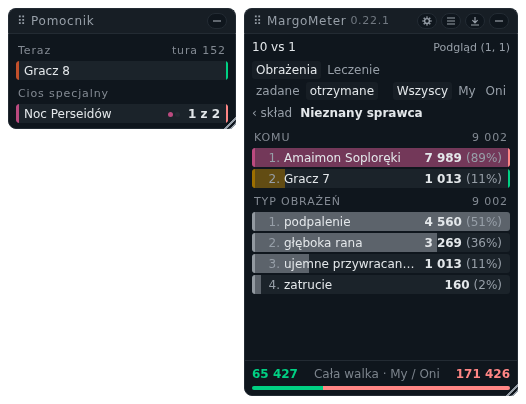
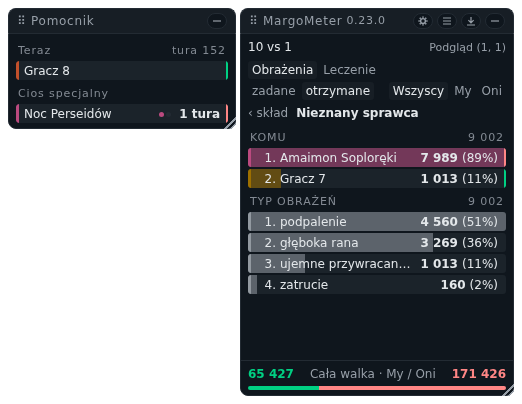
build(release): 0.23.0, tooltips in the game's own words, a coloured outcome, and a panel that says what it cannot show
Twenty-nine entries, seven of them a Zmiana, which is why the number moves
in its minor place:
- the panel's rows in a fighter's tooltip are written as the game writes
  its own, and Pomocnik counts the turns a length has left as the game
  does;
- "Typ obrażeń" keeps absorption under the element it took, or "x lub
  y" where the game gave one figure for the whole blow;
- a fight's outcome is green or red over the ranking, on its card and as
  a letter on the shelf, and a kept fight whose figures may be short or
  that no longer reads says so on its row;
- the rank, the share, the turn mark and the version are in the plain
  ink, the two signal marks on a ground of their own (ADR 0048);
- twenty-two fixes, among them the tooltips' slow and haste counted on
  their bearer's turns, a fight that did not read kept out of the shelf,
  every defect drawn, and this cycle's last audit (8fdfe95): an unread
  key opens no turn, a timer the page refuses leaves a panel saying so,
  and a live fight that will not read costs only its own row.

Each entry was held against v0.22.1: every fault stands in the tagged
tree (the turn standing, `interval.every`'s refusal, the live tally
ahead of the kept fight, the opponent cut, the quiet rank, the silent
dot and card-line clamps were each read there). Not entered, as nothing
a player sees: the rules, guards and renames, the development build's
second (ADR 0050), the envelope's refused call kept in the file, and a
[…]

diff --git a/CHANGELOG.md b/CHANGELOG.md
@@ -34,7 +34,7 @@ Wszystkie istotne zmiany w tym dodatku są tu notowane.
 > wszystko może się zmienić w każdej chwili. Do czasu `1.0.0` czytaj wpisy oznaczone **Zmiana**
 > przed aktualizacją.
 
-## [Niewydane]
+## [0.23.0] — 2026-10-09
 
 - **Zmiana** — Dopiski panelu w dymku postaci są zapisane tak jak wiersze gry nad nimi, na przykład
   „Dotyk anioła: 1/3” i „Spowolnienie: 14%”, a prowokacja mówi, ile tur jeszcze trzyma, na przykład
